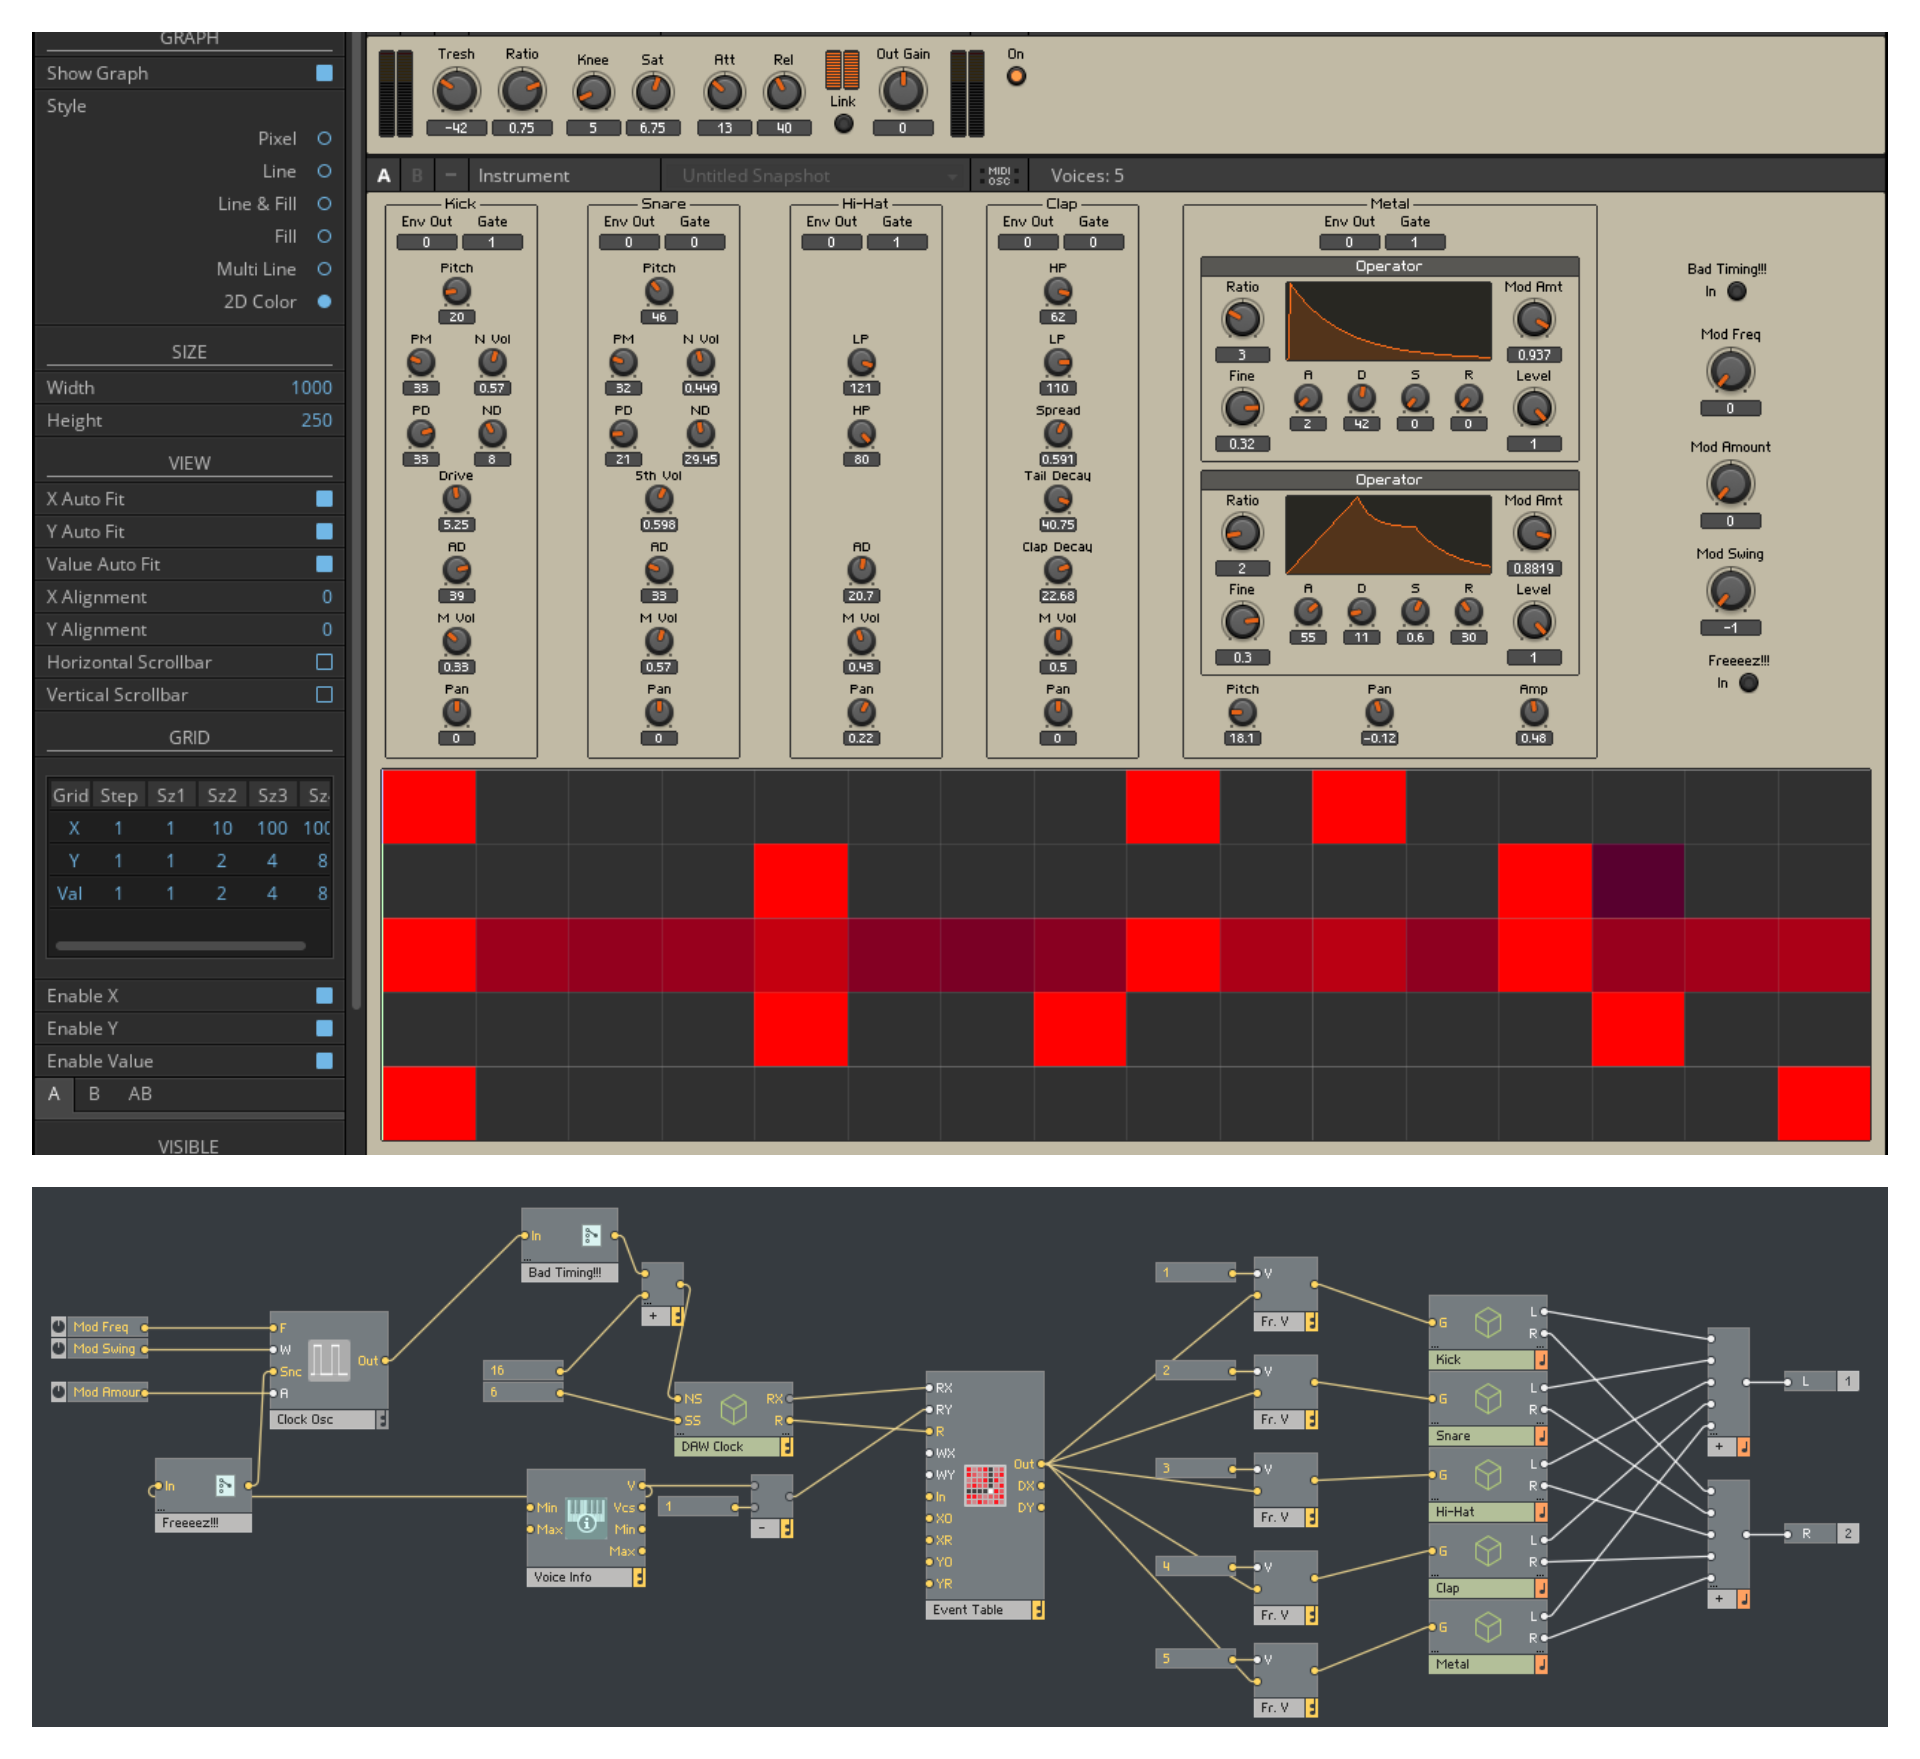
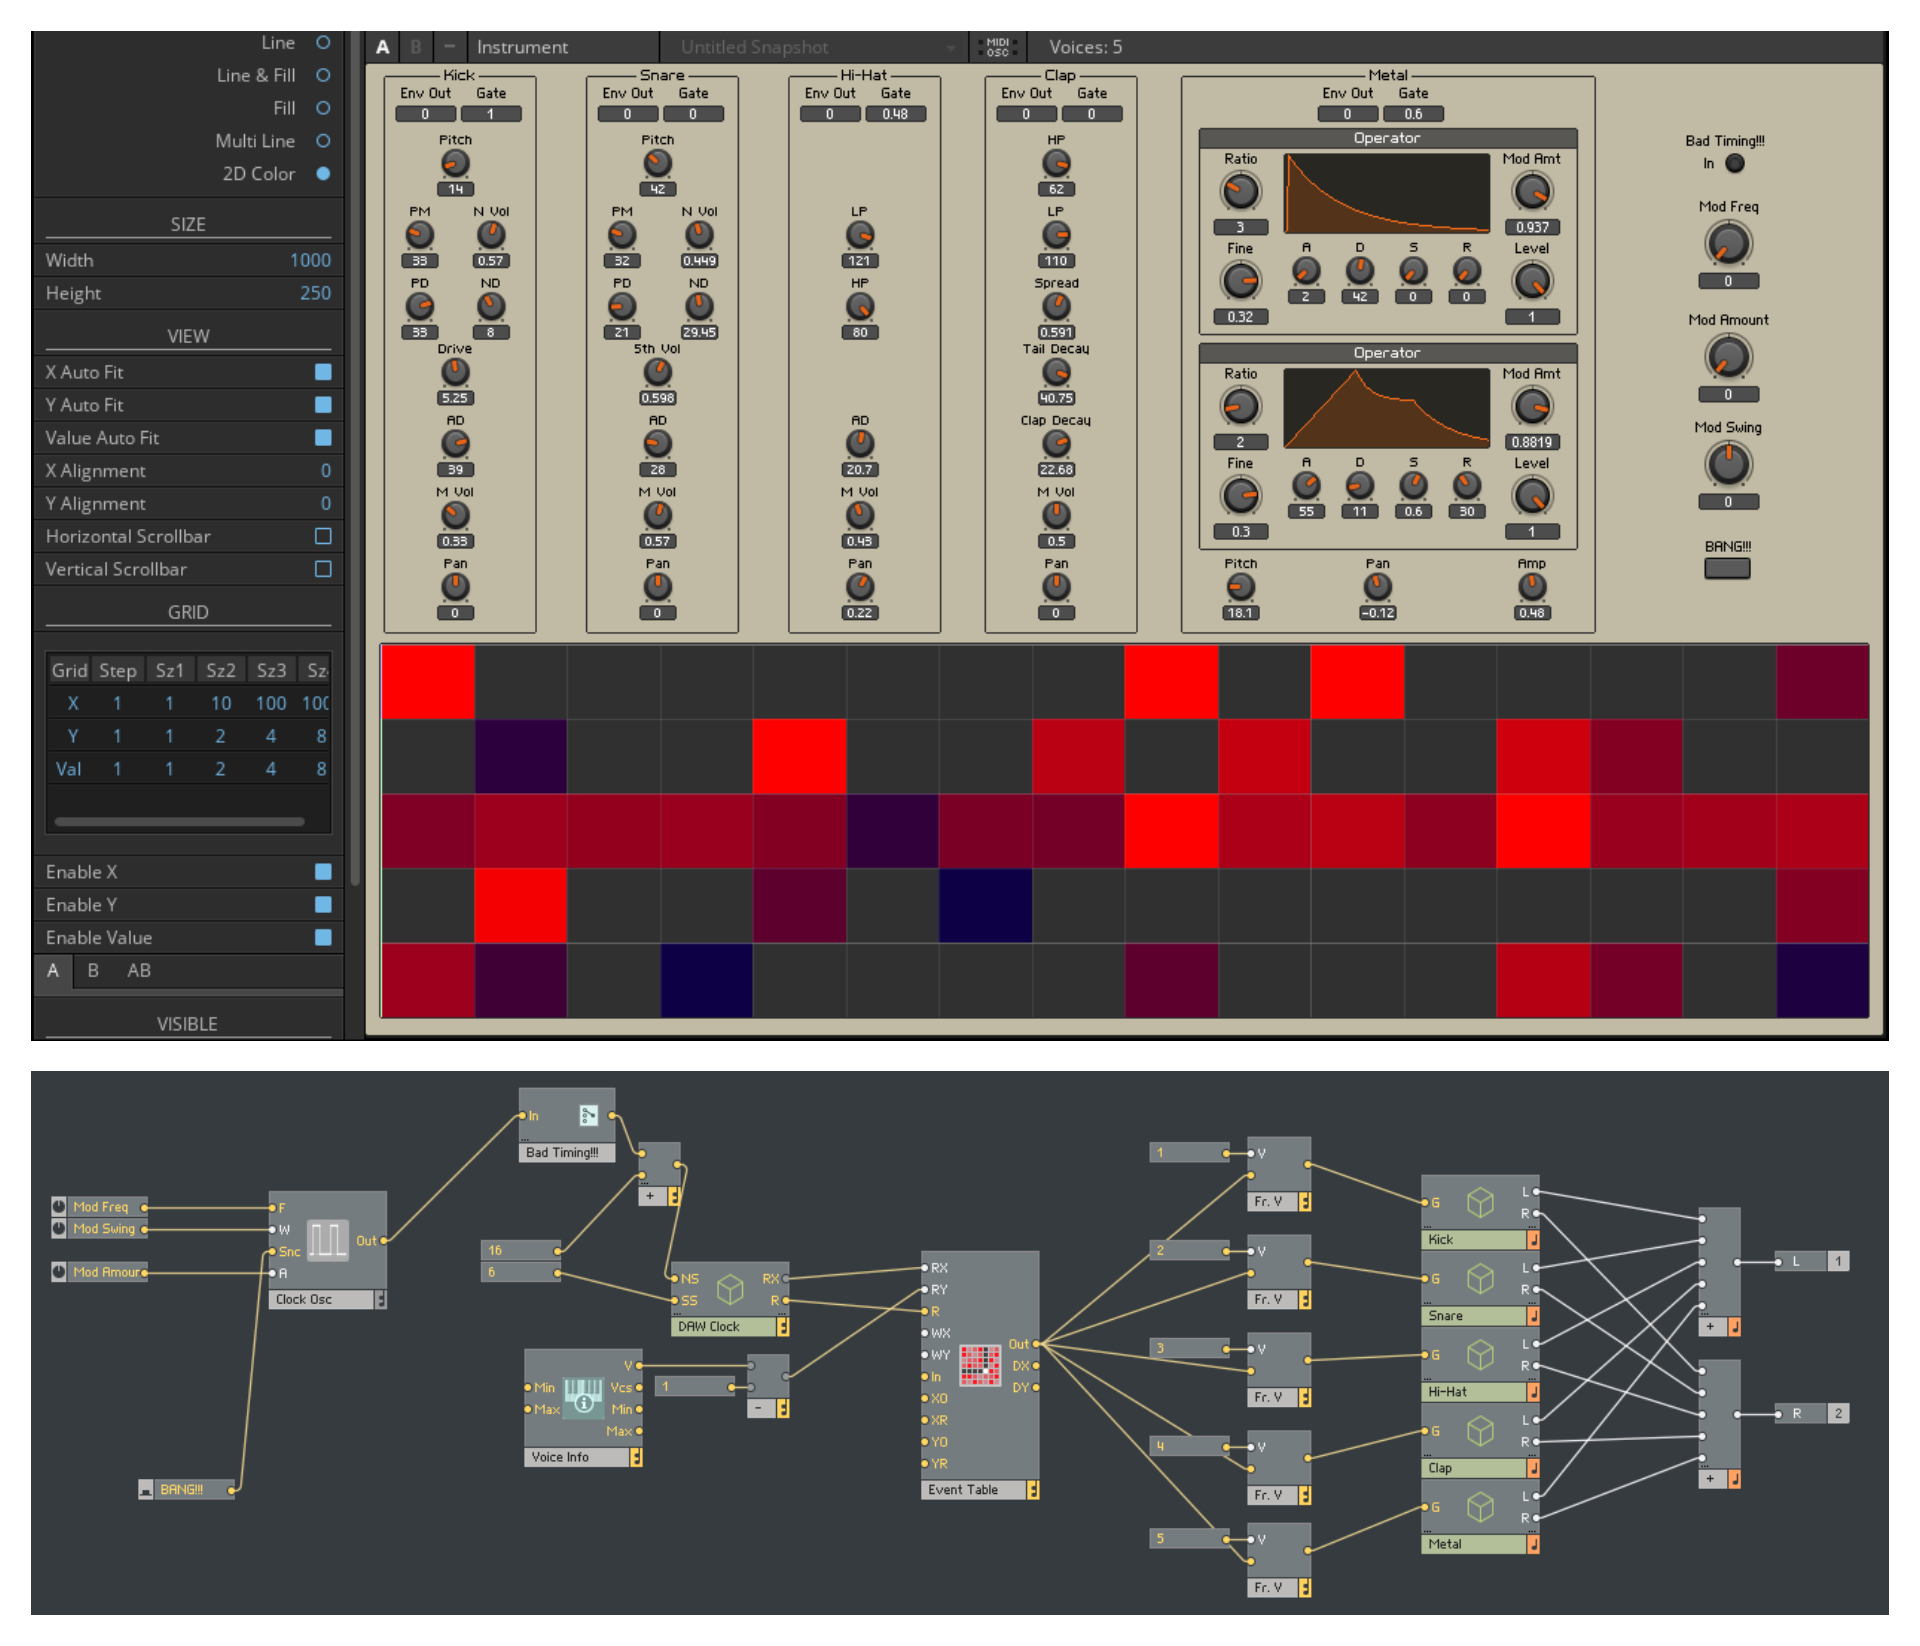
update

diff --git a/_sections/synthandeffect.html b/_sections/synthandeffect.html
@@ -9,20 +9,20 @@ order: 2
 <!-- <iframe width="420" height="315" src="http://www.youtube.com/embed/dQw4w9WgXcQ" frameborder="0" allowfullscreen></iframe> -->
 
 <h3>ParanoidChorus</h3>
-<h4><strong>A chorus-like effect based on JUCE <a href="https://github.com/paranoid2droid/ParanoidChrous" target="_blank">[repo]</a></strong></h4>
+<h4><strong>A chorus-like audio effect based on JUCE <a href="https://github.com/paranoid2droid/ParanoidChrous" target="_blank">[repo]</a></strong></h4>
 
 <a href="https://youtu.be/ECDHRS1kips" target="_blank" class="image featured"><img src="img/paranoidchorus.png" alt="ParanoidChrous" /></a>
-<p align=left>An effect you can use either as a plug-in or a standalone application. Knobs on the top-left are basically parameters you can modify on a delay/chorus/flanger effect. In "mood" selection you can control the level of modulating, and in "mode" selection you can choose different oscillators. Plus, the "mod" slider works as a powerful magic booster for the LFO, generating awesome sounds from whatever input.</p>
+<p align=left>A delay-based audio effect that you can run either as a plug-in or a standalone application. Knobs on the top-left are the basic parameters you can play with in a delay/chorus/flanger effect. In "mood" selection you can control the level of modulating, and in "mode" selection you can choose different oscillators for modulation. Plus, the "mod" slider works as a powerful magic booster for the LFO, generating new awesome sounds by high frequency modulation.</p>
 
 <h3>shakeFM</h3>
 <h4><strong>An OSC-based remote control FM synthesizer based on Wekinator <a href="https://github.com/paranoid2droid/shakeFM" target="_blank">[repo]</a></strong></h4>
 
 <a href="https://youtu.be/rLEmL9Iut3o" target="_blank" class="image featured"><img src="img/shakefm.png" alt="shakeFM" /></a>
-<p align=left>Parameters of FM synthesizer are controlled by accelerators built in the phones via machine learning algorithms. Neural network and polynomial regression were applied while training the model. Thus, subtle gesture change of your hand holding the phone will generate a new tone in the synthesizer. Shake it hard, and you will get the best damn sound.</p>
+<p align=left>A motion-sensing FM synthesizer. Parameters of the ChucK-based FM synthesizer are controlled by accelerators built in the phones via OSC protocol. The mapping is derived by machine learning algorithms in Wekinator. Neural network and polynomial regression were applied when training the model. Thus, any subtle gesture changes of your hand holding the phone will generate new tones in the synthesizer. Shake it hard, and you will get the best damn sound.</p>
 
 <h3>GrainBeats</h3>
 <h4><strong>A Drum Machine with Digital Clock Modulation Creating Complex Groovy Rhythm Patterns</strong><a href="https://github.com/paranoid2droid/GrainBeats" target="_blank">[repo]</a></h4>
 
 <a href="https://youtu.be/KdxJaFsBaPY" target="_blank" class="image featured"><img src="img/grainbeats.png" alt="grainbeats" /></a>
-<p align=left>The "Bad Timing!!!" mode: the digital clock triggering the beats will be modulated corresponding to the parameters below. Plus, you can modify the modulating frequency, modulating amount, and you can even give the modulation a swing. You can bang the drums directly hit the "BANG!!!" button, it triggers the beats cooperating with modulation. </p>
+<p align=left>A drum machine with unique modulating features based on Reaktor. In the "Bad Timing!!!" mode, the digital clock triggering the beats will be modulated corresponding to the parameters below. Plus, you can modify the modulating frequency, modulating amount, and you can even give the modulation a swing. You can bang the drums directly hit the "BANG!!!" button, it triggers the beats cooperating with modulation. </p>
 
